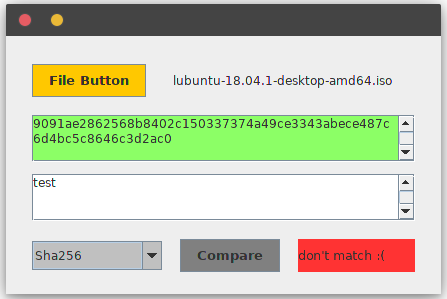
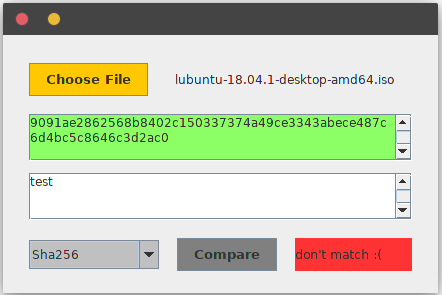
button renamed

diff --git a/src/checksum/Gui.java b/src/checksum/Gui.java
@@ -78,7 +78,7 @@ public class Gui extends JFrame {
 		successColor = new Color(140, 255, 102);
 		defaultColor = new Color(204, 204, 255);
 
-		fileButton = new JButton("File Button");
+		fileButton = new JButton("Choose File");
 		fileButton.setFocusPainted(false);
 		fileButton.setBackground(Color.ORANGE);
 		fileButton.setFont(fontButton);
